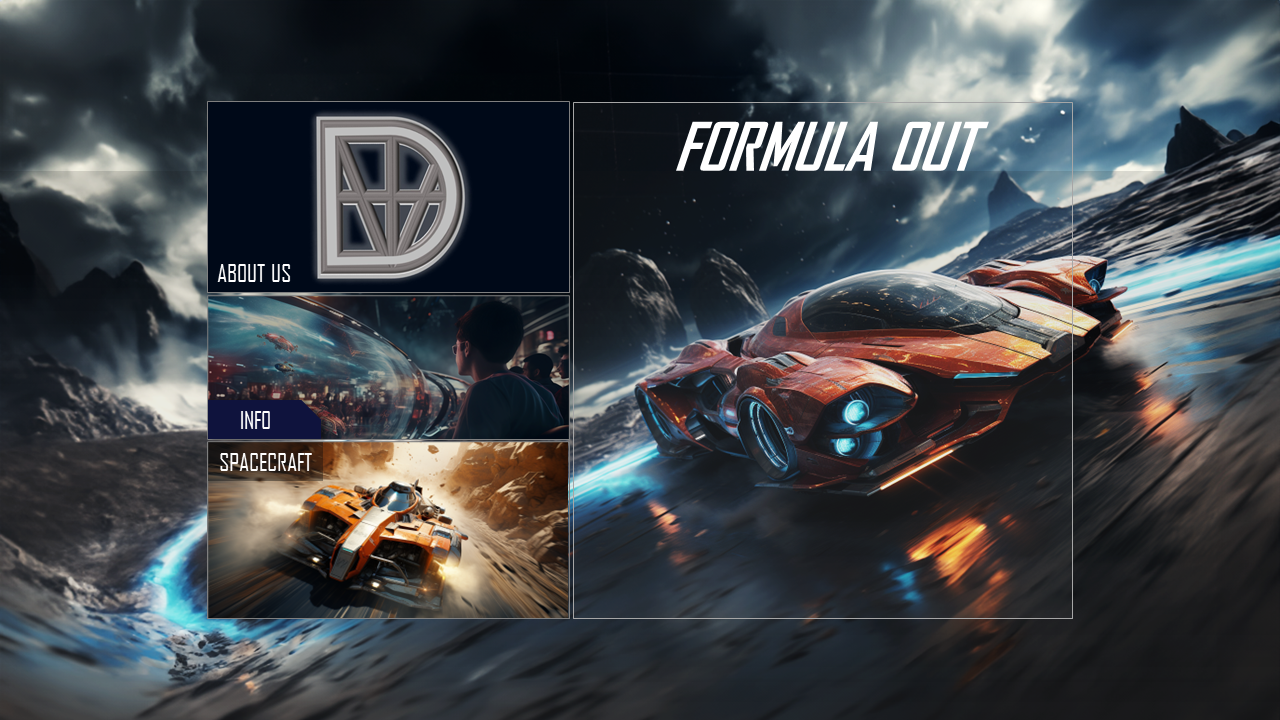
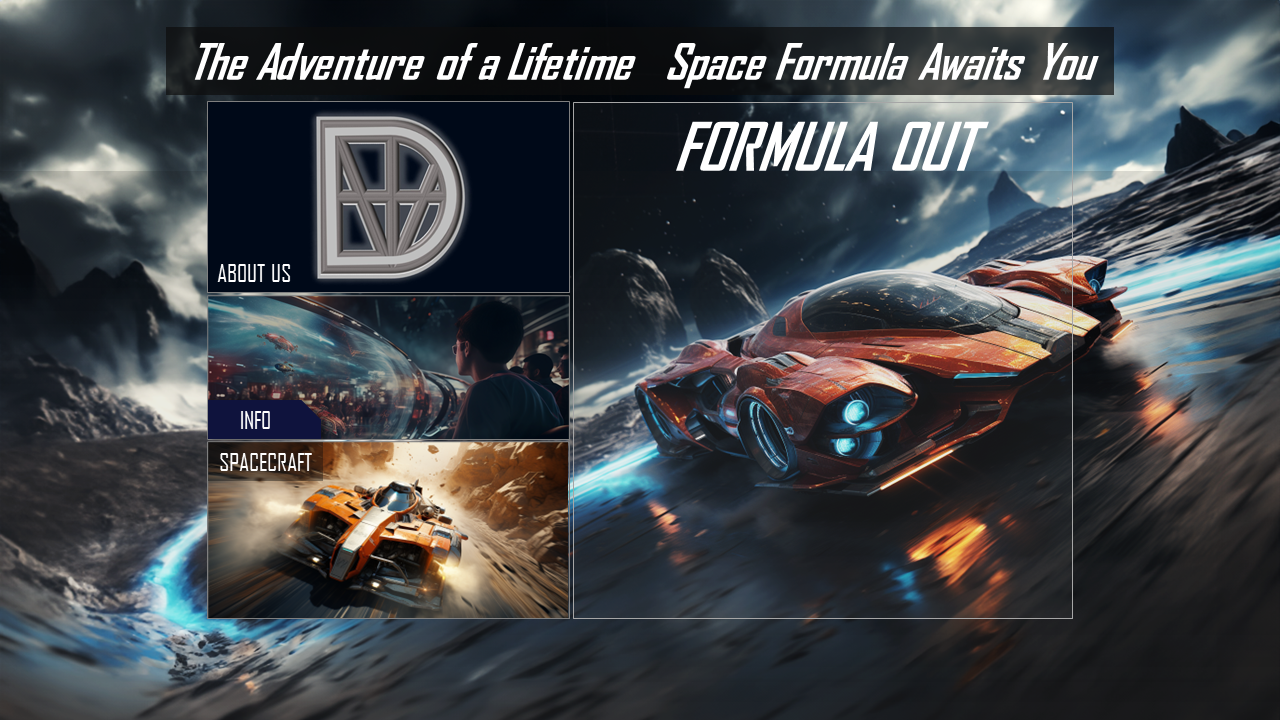
really?

Changed region(s): [[0.125, 0.0306, 0.875, 0.1528]]

diff --git a/templates/2.html b/templates/2.html
@@ -7,7 +7,7 @@
     <link href="https://cdn.jsdelivr.net/npm/bootstrap@5.1.1/dist/css/bootstrap.min.css" rel="stylesheet" integrity="sha384-F3w7mX95PdgyTmZZMECAngseQB83DfGTowi0iMjiWaeVhAn4FJkqJByhZMI3AhiU" crossorigin="anonymous">
     <link href="{{url_for ('static', filename='css/test.css' )}}" rel ="stylesheet"/><script type="module" src="https://unpkg.com/ionicons@7.1.0/dist/ionicons/ionicons.esm.js"></script>
     <script nomodule src="https://unpkg.com/ionicons@7.1.0/dist/ionicons/ionicons.js"></script>
-   
+    <link rel="icon" href="../static/img/BackgroundEraser_20231008_135253038.png" type="image/x-icon">
 </head>
 <body>
     <header>
@@ -55,8 +55,25 @@
             </li>
         
         
-        
-            <img   src="static/img/info8.jpg"  border = "0" width="1080" height="720" usemap="#planetmap" alt="planetmap">
+            <li>
+                
+            </li>
+            <li>
+                <div class="container">
+     
+                    <div class="infont">
+                        <h2>VENUS</h2>
+                       <div>
+Venus, often called Earth's twin, is actually a hellish neighbor. <br> scorching surface can melt lead, and its thick atmosphere blurs the Sun's appearance.<br> It once might have been habitable, but a runaway greenhouse effect changed that over a billion years ago. <br>Today, the surface is inhospitable, but Venus still holds lessons about habitability and the potential for life, especially in its dense cloud cover.<br>
+                    </div>
+                    <img src="static/img/venustab.PNG">
+                    <!--<img  class= "imgback" src="static/img/Venus_.png"  border = "0" width="1080" height="720" alt="loading">-->
+                </div>
+            
+            </li>
+            
+            <img   src="static/img/info2.jpg"  border = "0" width="1080" height="720" usemap="#planetmap" alt="planetmap">
+           
         </ul>
         
     </section>

diff --git a/templates/info.html b/templates/info.html
@@ -47,12 +47,26 @@
         </div>
     </nav>
     
-    <section class="whats-new background">
-       
+
+        <div class="about">
+            <div class="au">
+                <div class="inner">
+                "The Adventure of a Lifetime ~ Space Formula Awaits You”<br>
+Our 'Space Formula' tour allows you to experience the high-speed excitement of F1 racing across all planets.<br>
+Each journey will accommodate a maximum of 5 players. Please note that minors, seniors, pregnant individuals, persons with disabilities, and those with heart conditions or other high-risk factors will not be able to participate in the race.<br> However, don't worry, TMDH will provide you with an exciting race broadcast platform to share the thrilling space race with you.<br> Additionally, all participants who register for the "Space Formula" tour will receive space tours and introductions as part of our services.
+<br>Participants will gather on Earth and undergo a pre-departure briefing at TMDH's Space Center, which will last approximately 4 hours.<br>
+Our 'Space Formula' tour is originally priced at 20,000 space coins. <br> are currently offering group discounts, so feel free to invite your friends and family to join. Groups with more than 15 people will receive a 15% discount per person.
+</div>
+
+
+            </div>
+            
+            </div>
+        </div>    
         
         
        
-    </section>
+
     
 </body>
 </html>

diff --git a/static/css/test.css b/static/css/test.css
@@ -145,7 +145,7 @@ a{
 
 .about{
     font-family: 'Lucida Sans', 'Lucida Sans Regular', 'Lucida Grande', 'Lucida Sans Unicode', Geneva, Verdana, sans-serif;
-    font-size: 50px;
+    font-size: 20px;
     width: 99vw;
     height: 40vw;
     justify-content: center;
@@ -169,7 +169,13 @@ a{
     border-color: #efffaa;
     border-style: dashed;
     text-align: center;
-    
+}
+.inner{
+    content: "";
+    display:inline-flex;
+    width: 1000px;
+    height: fit-content;
+
 }
 
 .full{
@@ -179,4 +185,19 @@ a{
 .home{
     width: 100vmax;
     height: 50vmax;
+}
+
+#container .inbox{
+    height: fit-content;
+    width: fit-content;
+}
+#container .imgback{
+    position: relative;
+    z-index: -1;
+}
+#container .infont{
+    width: 50%;
+    height: 500px;
+    text-align: left;
+    font-size: large;
 }

diff --git a/templates/1.html b/templates/1.html
@@ -7,7 +7,7 @@
     <link href="https://cdn.jsdelivr.net/npm/bootstrap@5.1.1/dist/css/bootstrap.min.css" rel="stylesheet" integrity="sha384-F3w7mX95PdgyTmZZMECAngseQB83DfGTowi0iMjiWaeVhAn4FJkqJByhZMI3AhiU" crossorigin="anonymous">
     <link href="{{url_for ('static', filename='css/test.css' )}}" rel ="stylesheet"/><script type="module" src="https://unpkg.com/ionicons@7.1.0/dist/ionicons/ionicons.esm.js"></script>
     <script nomodule src="https://unpkg.com/ionicons@7.1.0/dist/ionicons/ionicons.js"></script>
-    
+    <link rel="icon" href="../static/img/BackgroundEraser_20231008_135253038.png" type="image/x-icon">
 </head>
 <body>
     <header>
